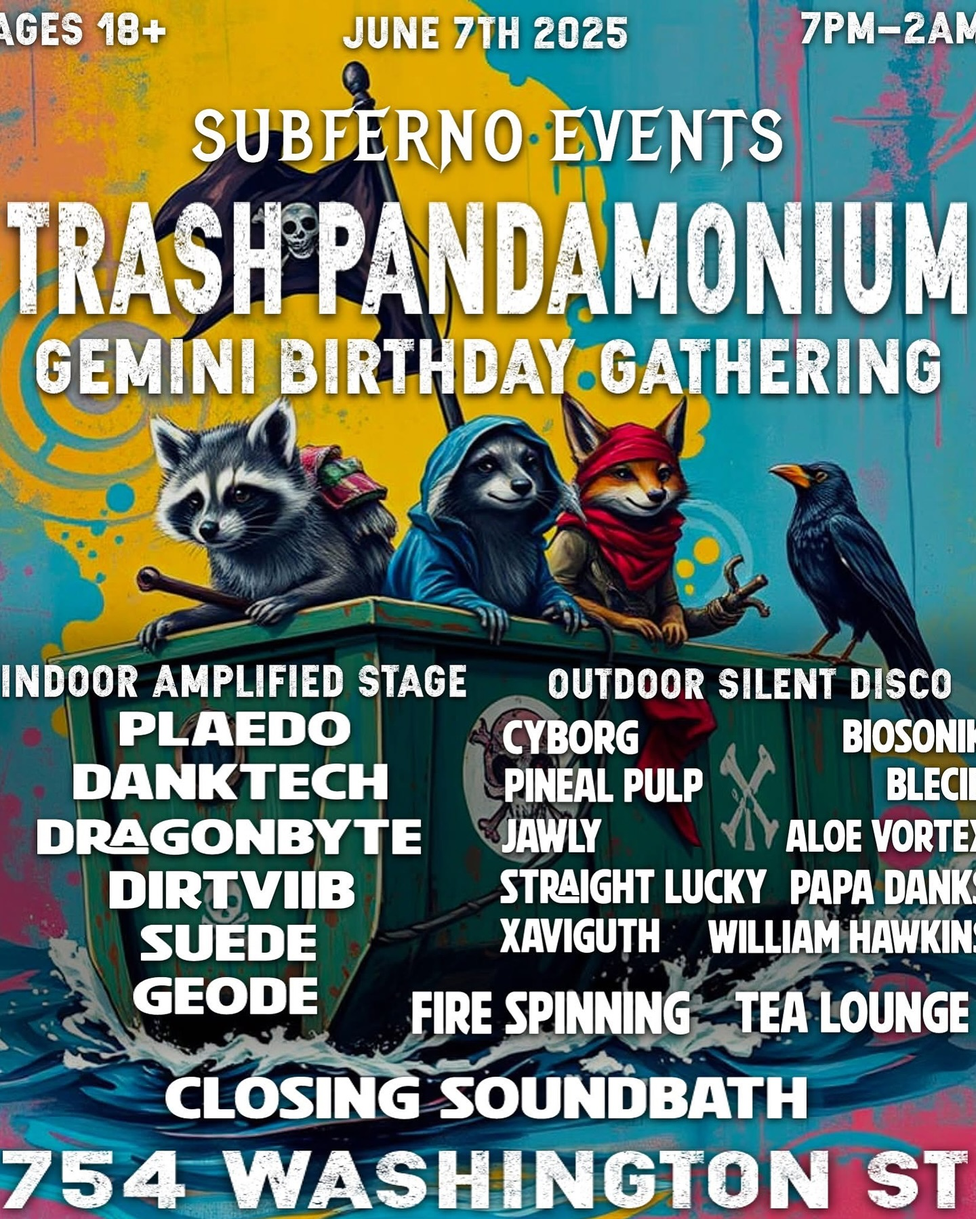
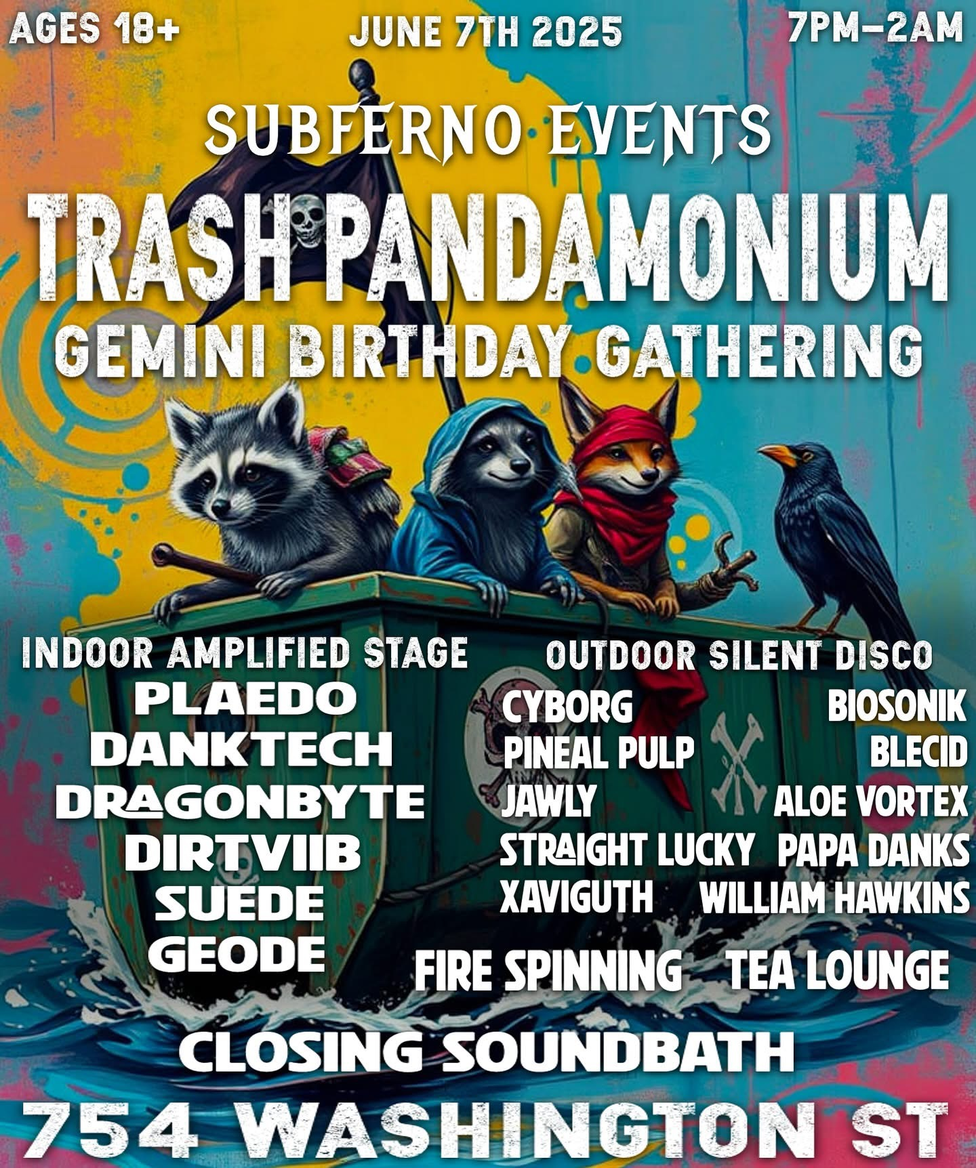
Add locations to flyer pages

diff --git a/flyers/2025-10-3.html b/flyers/2025-10-3.html
@@ -11,6 +11,7 @@
     <main>
       <h1>2025-10-3</h1>
       <p>Teadrinkingunicorns Birthday bash</p>
+      <p>@ Virtual</p>
       <img
         src="flyer-images/2025-10-3.jpg"
         alt="Teadrinkingunicorns Birthday bash"

diff --git a/flyers/2025-6-20.html b/flyers/2025-6-20.html
@@ -11,6 +11,7 @@
     <main>
       <h1>2025-6-20</h1>
       <p>Solstice in Wonderland</p>
+      <p>@ Willow Fae Tea House</p>
       <img src="flyer-images/2025-6-20.jpg" alt="Solstice in Wonderland" />
     </main>
   </body>

diff --git a/flyers/2026-9-10.html b/flyers/2026-9-10.html
@@ -11,6 +11,7 @@
     <main>
       <h1>2026-9-10</h1>
       <p>The Underdark</p>
+      <p>@ The Sparrow and Serpent Pub</p>
       <img src="flyer-images/2026-9-10.jpg" alt="The Underdark" />
     </main>
   </body>

diff --git a/flyers/2025-12-6.html b/flyers/2025-12-6.html
@@ -11,6 +11,7 @@
     <main>
       <h1>2025-12-6</h1>
       <p>Tribe XR December Raid</p>
+      <p>@ Virtual</p>
       <img src="flyer-images/2025-12-6.jpg" alt="Tribe XR December Raid" />
     </main>
   </body>

diff --git a/flyers/2026-4-10.html b/flyers/2026-4-10.html
@@ -11,6 +11,7 @@
     <main>
       <h1>2026-4-10</h1>
       <p>Open Fire Jam</p>
+      <p>@ Washington Jefferson Park</p>
       <img src="flyer-images/2026-4-10.jpg" alt="Open Fire Jam" />
     </main>
   </body>

diff --git a/flyers/2026-10-3.html b/flyers/2026-10-3.html
@@ -11,6 +11,7 @@
     <main>
       <h1>2026-10-3</h1>
       <p>Tribe XR October Raid</p>
+      <p>@ Virtual</p>
       <img src="flyer-images/2026-10-3.png" alt="Tribe XR October Raid" />
     </main>
   </body>

diff --git a/flyers/2026-2-7.html b/flyers/2026-2-7.html
@@ -11,6 +11,7 @@
     <main>
       <h1>2026-2-7</h1>
       <p>Tribe XR February Raid</p>
+      <p>@ Virtual</p>
       <img src="flyer-images/2026-2-7.jpg" alt="Tribe XR February Raid" />
     </main>
   </body>

diff --git a/flyers/2025-6-22.html b/flyers/2025-6-22.html
@@ -11,6 +11,7 @@
     <main>
       <h1>2025-6-22</h1>
       <p>Sanctuary Sunday</p>
+      <p>@ The Space Bar</p>
       <img src="flyer-images/2025-6-22.jpg" alt="Sanctuary Sunday" />
     </main>
   </body>

diff --git a/flyers/2025-8-24.html b/flyers/2025-8-24.html
@@ -11,6 +11,7 @@
     <main>
       <h1>2025-8-24</h1>
       <p>Sanctuary Sunday</p>
+      <p>@ The Space Bar</p>
       <img src="flyer-images/2025-8-24.jpg" alt="Sanctuary Sunday" />
     </main>
   </body>

diff --git a/flyers/2026-1-3.html b/flyers/2026-1-3.html
@@ -11,6 +11,7 @@
     <main>
       <h1>2026-1-3</h1>
       <p>Tribe XR IRL Edition</p>
+      <p>@ Virtual</p>
       <img src="flyer-images/2026-1-3.jpg" alt="Tribe XR IRL Edition" />
     </main>
   </body>

diff --git a/flyers/2026-3-7.html b/flyers/2026-3-7.html
@@ -11,6 +11,7 @@
     <main>
       <h1>2026-3-7</h1>
       <p>Tribe XR March Raid</p>
+      <p>@ Virtual</p>
       <img src="flyer-images/2026-3-7.jpg" alt="Tribe XR March Raid" />
     </main>
   </body>

diff --git a/flyers/2025-6-7.html b/flyers/2025-6-7.html
@@ -11,6 +11,7 @@
     <main>
       <h1>2025-6-7</h1>
       <p>Trash Pandamonium</p>
+      <p>@ Magi Manor</p>
       <img src="flyer-images/2025-6-7.jpg" alt="Trash Pandamonium" />
     </main>
   </body>
